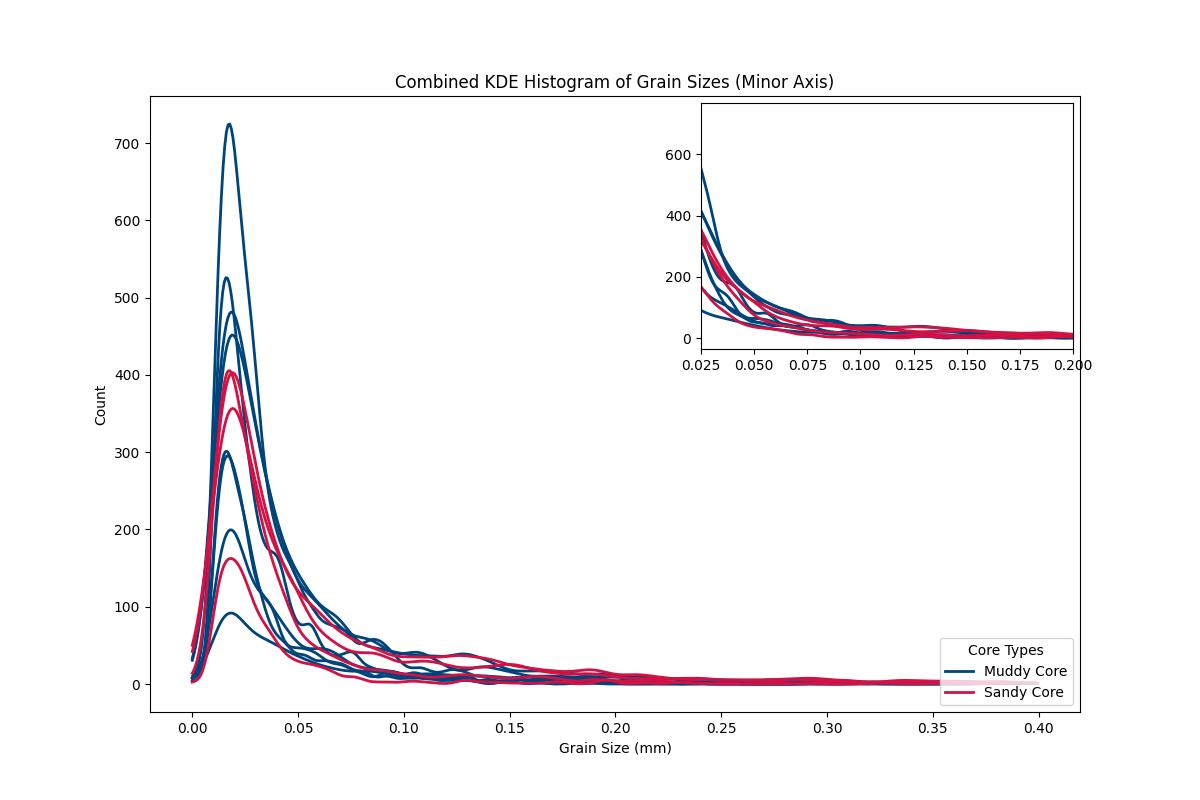
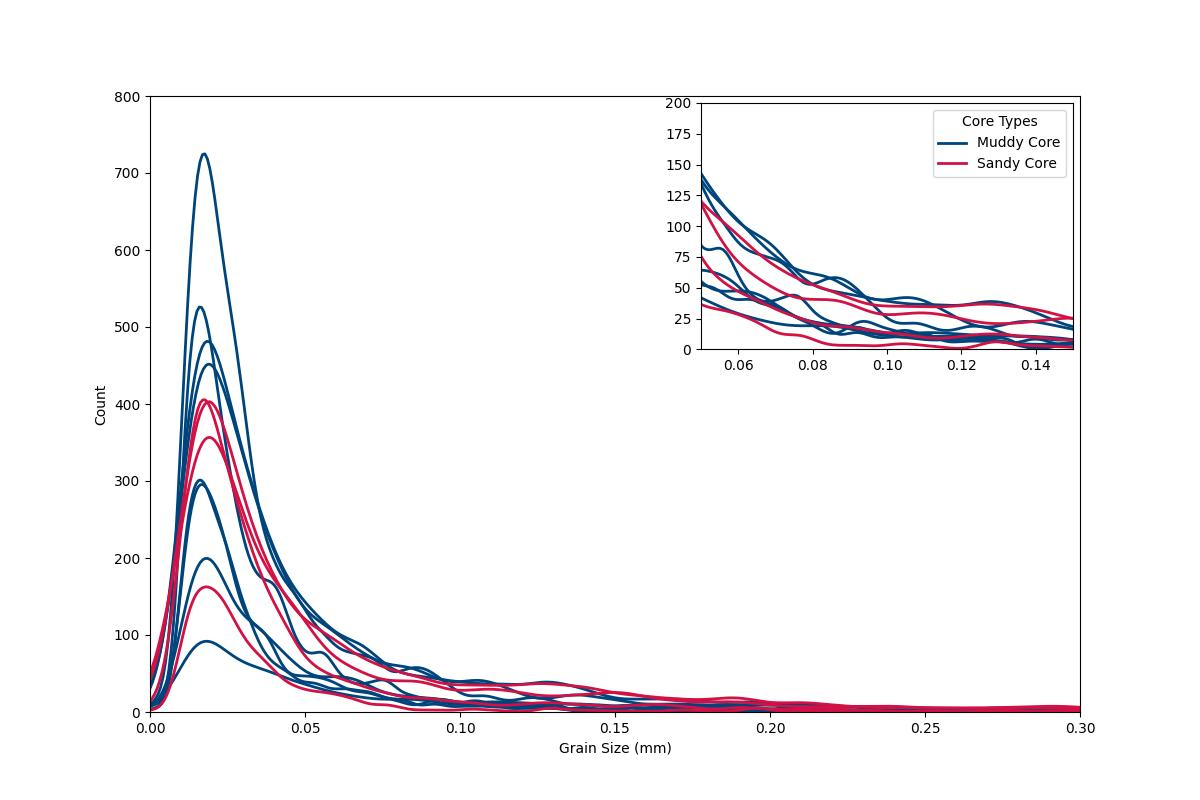
e

diff --git a/final.py b/final.py
@@ -163,24 +163,22 @@ for grain_lengths, color, filename, core_type in all_grain_lengths:
     plt.plot(x_vals, kde_counts, color=color, lw=2)
 
 # Plot settings
-plt.title("Combined KDE Histogram of Grain Sizes (Minor Axis)")
 plt.xlabel("Grain Size (mm)")
 plt.ylabel("Count")
-
-# Add legend for core types and move it to the bottom-right corner
-handles = [
-    plt.Line2D([0], [0], color='#00447c', lw=2, label='Muddy Core'),
-    plt.Line2D([0], [0], color='#d31145', lw=2, label='Sandy Core')
-]
-plt.legend(handles=handles, title="Core Types", loc="lower right")
 
 # Keep gridlines off but **restore y-axis ticks and labels**
 plt.gca().grid(False)
 
+plt.margins(0)
+plt.gca().set_ylim(0, 800)
+plt.gca().set_xlim(0, 0.3)
+
 # Create zoomed-in inset
 ax_main = plt.gca()
 ax_inset = inset_axes(ax_main, width="40%", height="40%", loc="upper right")
-ax_inset.set_xlim(0.025, 0.2)
+ax_inset.set_xlim(0.05, 0.15)
+ax_inset.set_ylim(0, 200)
+ax_inset.margins(0)
 
 # Add the KDE plots to the inset with count scaling
 for grain_lengths, color, filename, core_type in all_grain_lengths:
@@ -190,6 +188,14 @@ for grain_lengths, color, filename, core_type in all_grain_lengths:
 
 # Restore y-axis ticks and labels in the inset
 ax_inset.grid(False)
+
+# Add legend for core types and move it to the bottom-right corner
+handles = [
+    plt.Line2D([0], [0], color='#00447c', lw=2, label='Muddy Core'),
+    plt.Line2D([0], [0], color='#d31145', lw=2, label='Sandy Core')
+]
+plt.legend(handles=handles, title="Core Types", loc="upper right")
+
 
 # Save combined histogram
 combined_histogram_path = os.path.join(output_dir, "combined-histogram.jpg")
